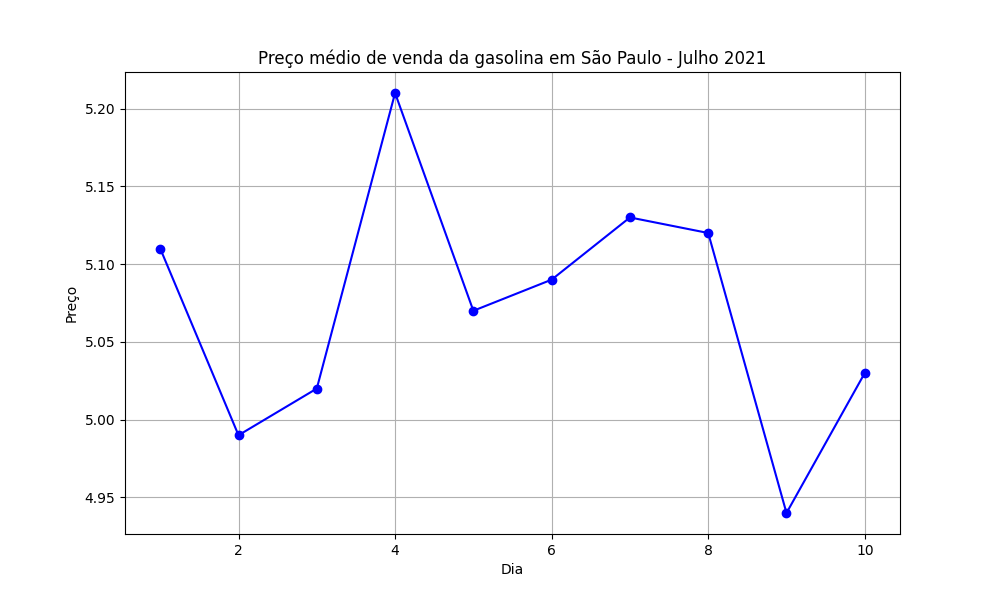
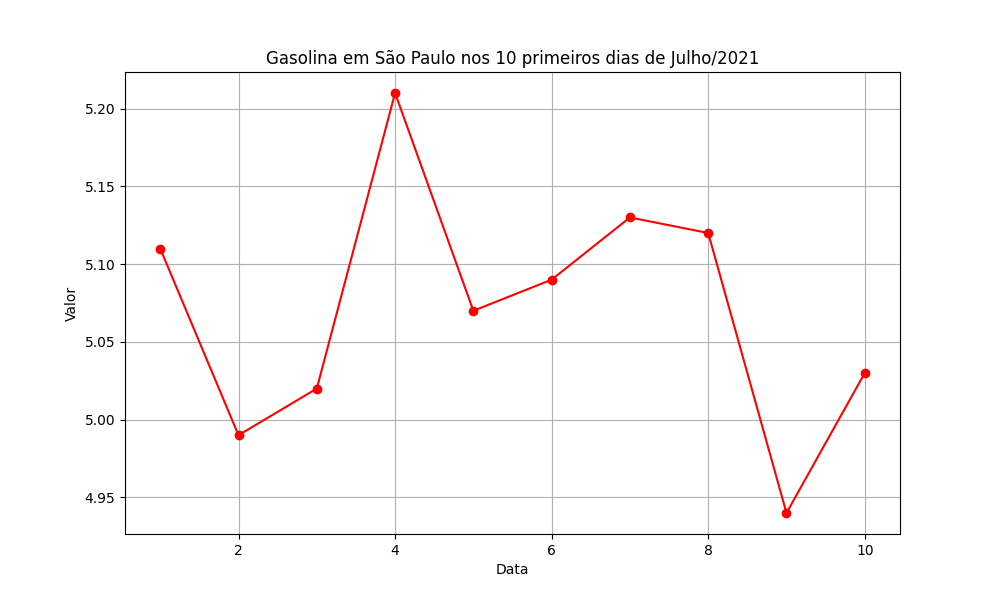
Adiciona base, código Python e gráfico alterados

diff --git a/gasolina.py b/gasolina.py
@@ -7,10 +7,10 @@ data = pd.read_csv('gasolina.csv')
 
 # gerar gráfico de linha
 plt.figure(figsize=(10, 6))
-plt.plot(data['dia'], data['venda'], marker='o', color='blue', linestyle='-')
-plt.title('Preço médio de venda da gasolina em São Paulo - Julho 2021')
-plt.xlabel('Dia')
-plt.ylabel('Preço (R$)')
+plt.plot(data['dia'], data['venda'], marker='o', color='red', linestyle='-')
+plt.title('Gasolina em São Paulo nos 10 primeiros dias de Julho/2021')
+plt.xlabel('Data')
+plt.ylabel('Valor')
 plt.grid(True)
 plt.savefig('gasolina.png')
 plt.show()
